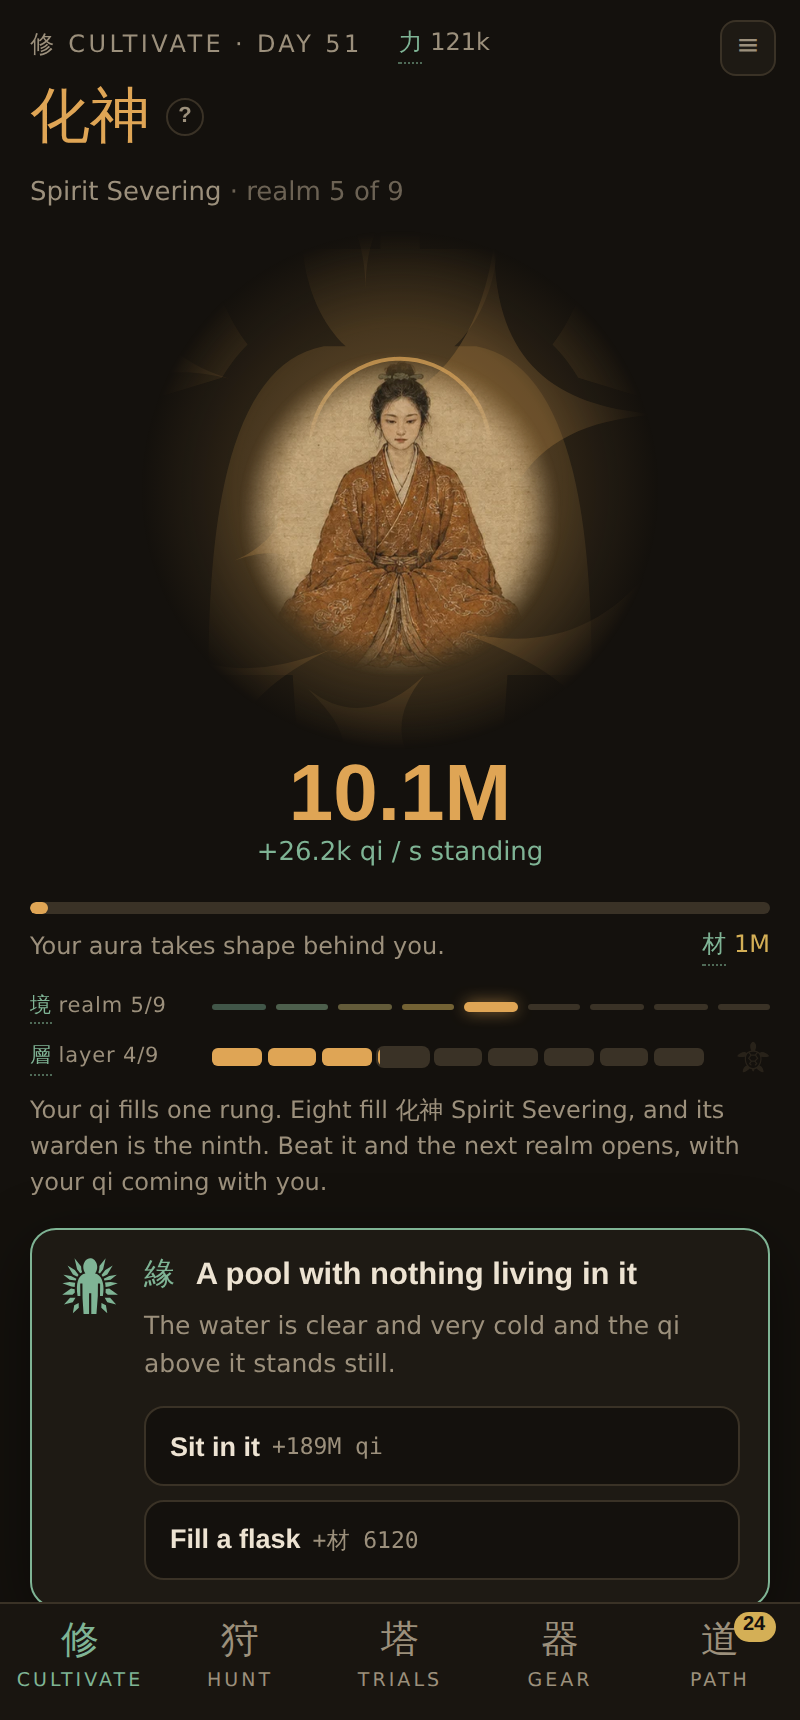
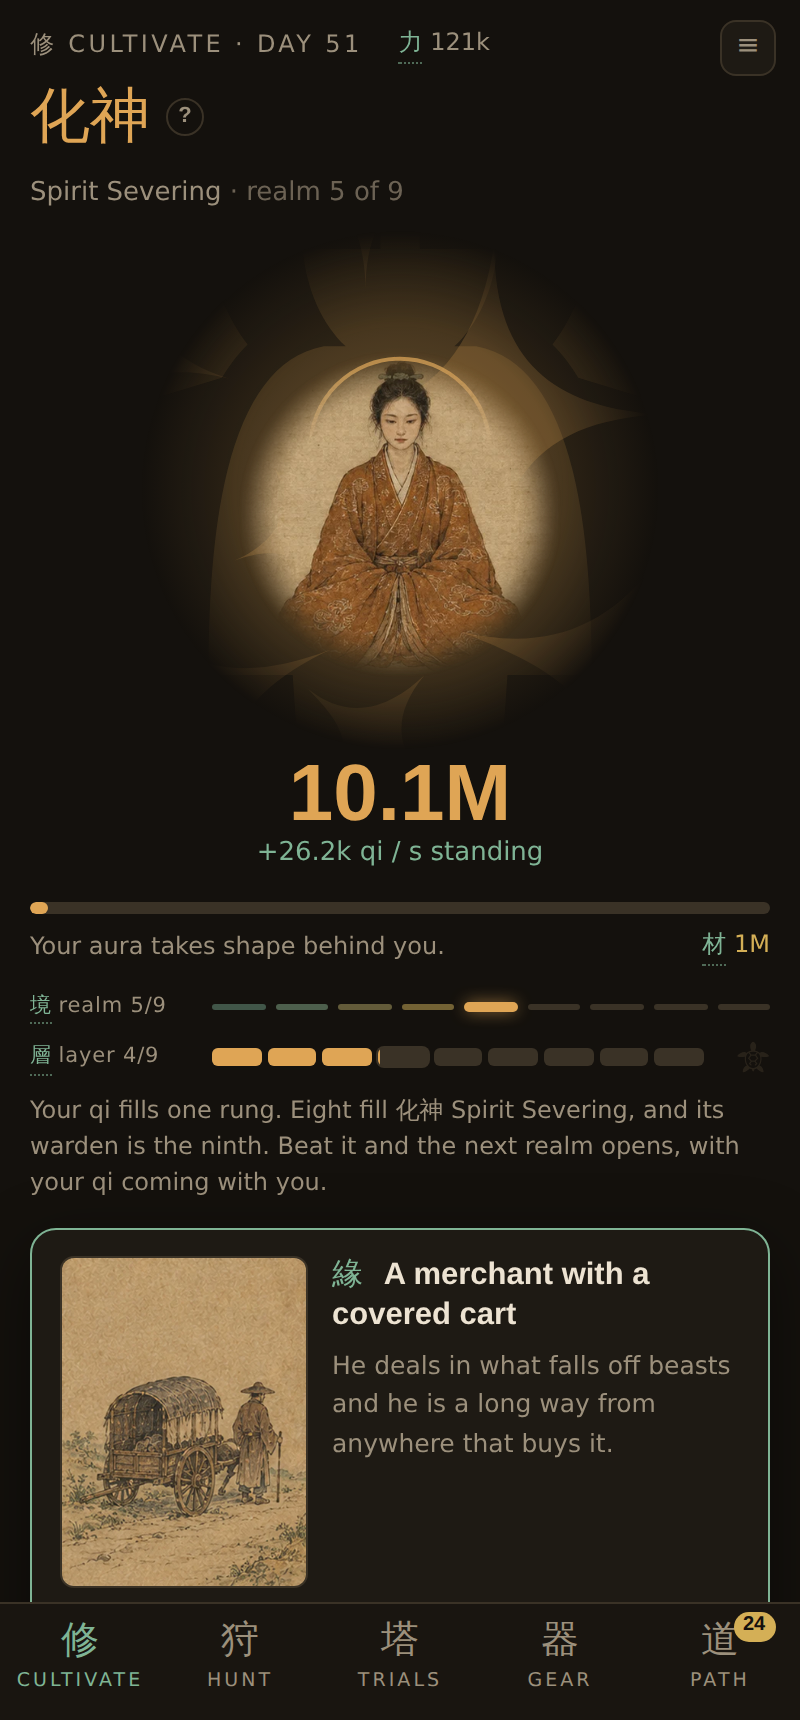
緣 The ten encounters, painted, beside the words
The sheet came back right: ten scenes, the order asked for, and the two
spare panels ruled and left as bare paper.

直 The card was wrong, though, and the sheet is what showed it. Four
panels across a square page makes a panel taller than it is wide, and the
model composed for that shape: subject low, sky above it. The band across
the top of the card that I had already built cropped the crow off its
branch entirely and took the swordsman's head.

So the picture stands beside the words instead. 124 by 166 is exactly the
shape the panel was painted in, so the scene is shown whole and `cover`
has nothing to crop, and 擇 the two choices run the full width underneath
where they always were. It reads as a page out of a notebook, which is
what an encounter is.

紙 And the file keeps the whole painting. Cutting an encounter to a wide
band would have thrown four fifths of it away where nothing could get it
back. The file keeps the scene; the card decides the window.

10 of 10 painted. Only 境外 the nine heavens are still a silhouette.

Claude-Session: https://claude.ai/code/session_01AMHKBrurHARqGfuWpT85XW

Changed region(s): [[0.0625, 0.7087, 0.9062, 0.9244]]

diff --git a/src/app/ui/Meet.tsx b/src/app/ui/Meet.tsx
@@ -45,11 +45,28 @@ export function Meet({ state, meeting, onAnswer }: {
    *
    * 圖 An encounter is the one moment an idle game stops for, and it was carrying a 30px
    * pictogram: a raven for a crow that has followed you a mile, a cauldron for an
-   * abandoned furnace. Painted, it goes across the top of the card as a band, which is
-   * the shape those scenes were drawn in and the shape a page of a traveller's notebook
-   * has. With no painting the card is exactly what it was.
+   * abandoned furnace.
+   *
+   * 直 It stands beside the words rather than above them. The first try put it in a band
+   * across the top, which was the wrong shape: four panels across a square page makes a
+   * panel taller than it is wide, and the paintings are composed that way, with the
+   * subject low and sky above it. A band cropped the crow off its branch entirely and
+   * took the swordsman's head. So the picture keeps its own shape at the left, the name
+   * and the line sit next to it, and 擇 the two choices run the full width underneath,
+   * where they were before. With no painting the card is exactly what it was.
    */
   const scene = pictureOf('meet', meeting.key);
+  const picks = (
+    <div className="picks">
+      {meeting.picks.map((p, i) => (
+        <button key={p.label} className="pick" disabled={!canAnswer(state, p)}
+          onClick={() => onAnswer(i as 0 | 1)}>
+          <b>{p.label}</b>
+          <em>{line(p)}</em>
+        </button>
+      ))}
+    </div>
+  );
 
   return (
     <div className="meet" data-scene={!!scene}>
@@ -59,16 +76,9 @@ export function Meet({ state, meeting, onAnswer }: {
       <div className="body">
         <b><span className="cjk">緣</span> {meeting.name}</b>
         <i>{meeting.line}</i>
-        <div className="picks">
-          {meeting.picks.map((p, i) => (
-            <button key={p.label} className="pick" disabled={!canAnswer(state, p)}
-              onClick={() => onAnswer(i as 0 | 1)}>
-              <b>{p.label}</b>
-              <em>{line(p)}</em>
-            </button>
-          ))}
-        </div>
+        {!scene && picks}
       </div>
+      {scene && picks}
     </div>
   );
 }

diff --git a/src/app/theme.css b/src/app/theme.css
@@ -1520,13 +1520,15 @@ nav.tabs button:active:not([data-shut='true']) { transform: scale(.93); }
 .meet > .s { flex: none; color: var(--jade); }
 .meet .s svg { display: block; }
 .meet .body { flex: 1; min-width: 0; }
-/* 緣 A card with a scene painted for it stops being a row and becomes a page: the band
-   runs the full width across the top, bled to the card's own corners, and the text sits
-   under it. The card keeps its padding for the text by moving it off the card itself. */
-.meet[data-scene='true'] { display: block; padding: 0; overflow: hidden; }
-.meet[data-scene='true'] .body { padding: 12px 14px 14px; }
-.meet .scenery { display: block; width: 100%; height: 108px; object-fit: cover;
-                 object-position: center 46%; border-bottom: 1px solid var(--line); }
+/* 緣 A card with a scene painted for it becomes a page from a notebook: the plate at the
+   left, the entry beside it, and 擇 the two choices the full width underneath.
+   124 by 166 is exactly the shape the panel was painted in, so the picture is shown whole
+   and `cover` never has anything to crop. */
+.meet[data-scene='true'] { display: grid; grid-template-columns: 124px 1fr;
+                           gap: 4px 12px; align-items: start; }
+.meet[data-scene='true'] .picks { grid-column: 1 / -1; margin-top: 8px; }
+.meet .scenery { display: block; width: 124px; height: 166px; object-fit: cover;
+                 border-radius: 7px; border: 1px solid var(--line); }
 .meet b { display: block; font-family: Rajdhani, sans-serif; font-weight: 700; font-size: 15.5px;
           line-height: 1.3; }
 .meet b .cjk { color: var(--jade); font-weight: 400; margin-right: 6px; }

diff --git a/tools/slice.ts b/tools/slice.ts
@@ -40,7 +40,11 @@ const CUT_MAX = 720;
 /** 獸 A creature is square and small on screen. 境 a realm is a wide card background. */
 const OUT = {
   beast: { w: 512, h: 512 }, realm: { w: 768, h: 432 },
-  self: { w: 512, h: 512 }, meet: { w: 768, h: 432 },
+  // 緣 An encounter keeps the shape it was painted in. Four across and three down on a
+  // square page makes a panel taller than it is wide, and squeezing that into a wide band
+  // at cut time would throw four fifths of the painting away in the file, where nothing
+  // can get it back. The file keeps the scene; the card decides the window.
+  self: { w: 512, h: 512 }, meet: { w: 640, h: 856 },
 } as const;
 
 /** Greyscale rows, so a column can be asked how much it varies from top to bottom. */

diff --git a/src/data/pictures.ts b/src/data/pictures.ts
@@ -144,7 +144,18 @@ export const PICTURES: Readonly<Record<Painted, readonly string[]>> = {
     'woman-8',
     'woman-9',
   ],
-  meet: [],
+  meet: [
+    'beggar',
+    'brokensword',
+    'crow',
+    'drunk',
+    'furnace',
+    'merchant',
+    'oldman',
+    'pool',
+    'stele',
+    'swordsman',
+  ],
 };
 
 /** Where a picture lives, if it exists. Null is the normal answer for now. */
